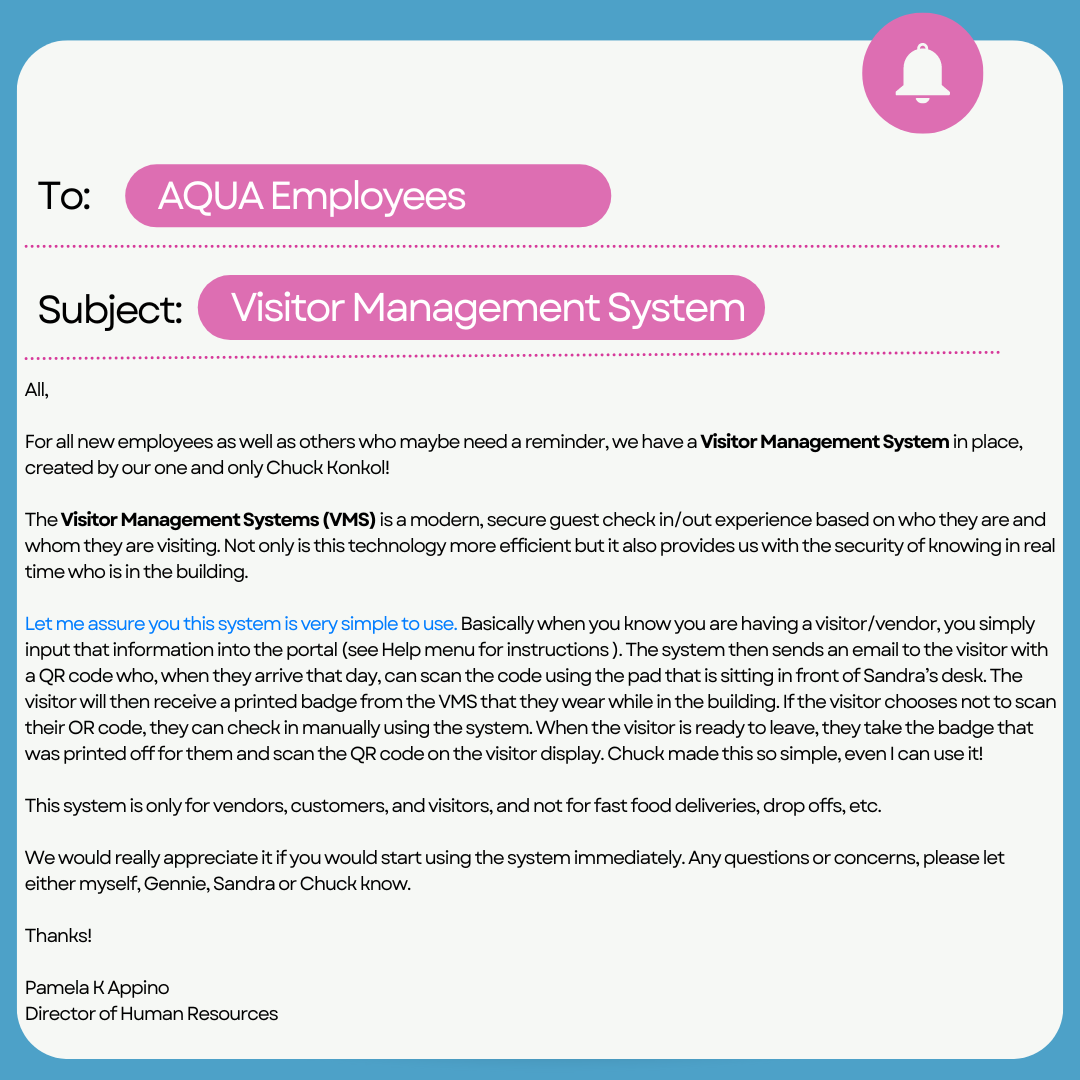
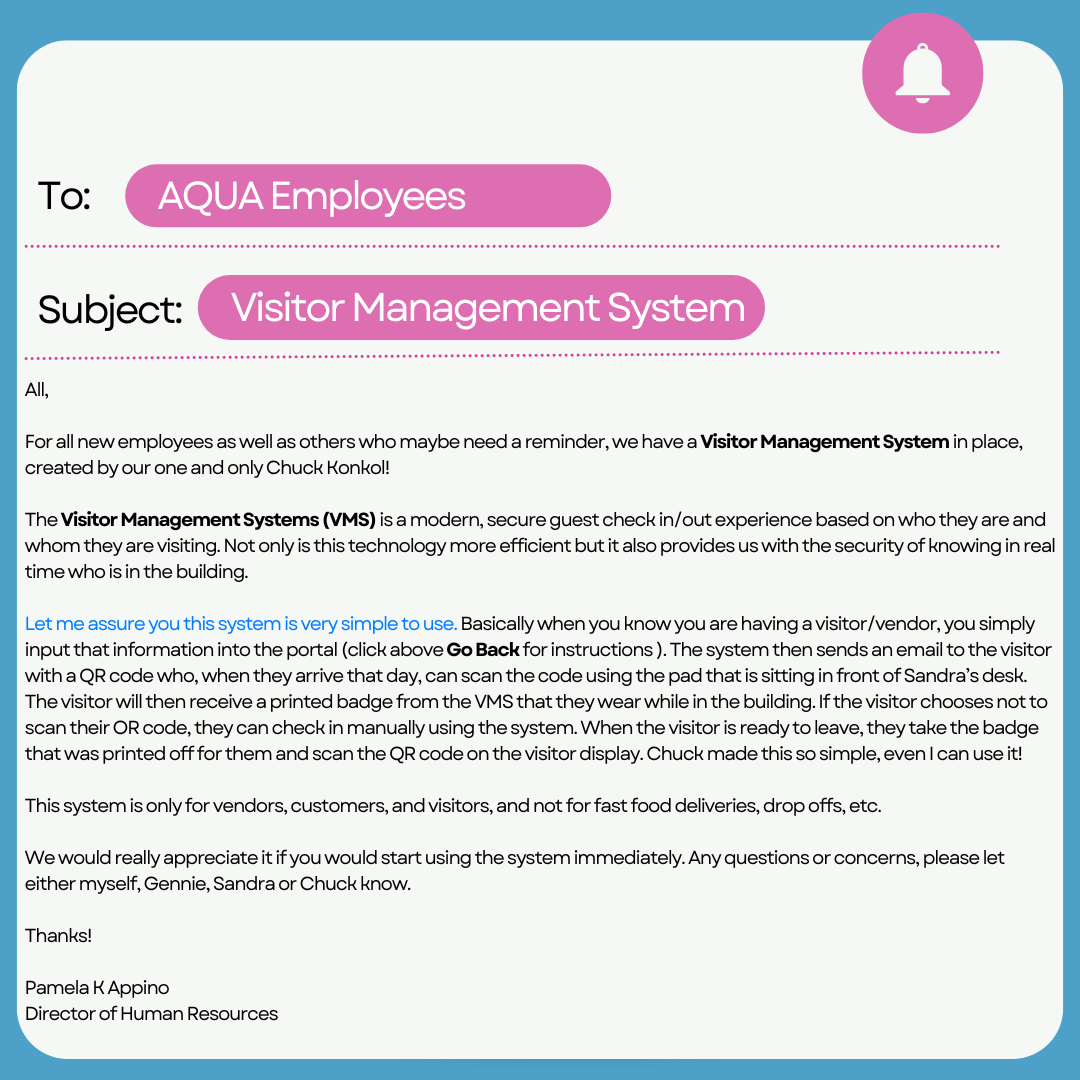
cc

Changed region(s): [[0.0306, 0.5806, 0.9778, 0.7028]]

diff --git a/help/email.html b/help/email.html
@@ -1,6 +1,6 @@
 <center>
 <br>
-<input type="button" value="<< Click Here To Go Back" onclick="window.history.back()" />
+<input type="button" value="<< Go Back" onclick="window.history.back()" />
 <br><br>
 <img src="PamAppinoEmail.png" width="800">
 </center>
